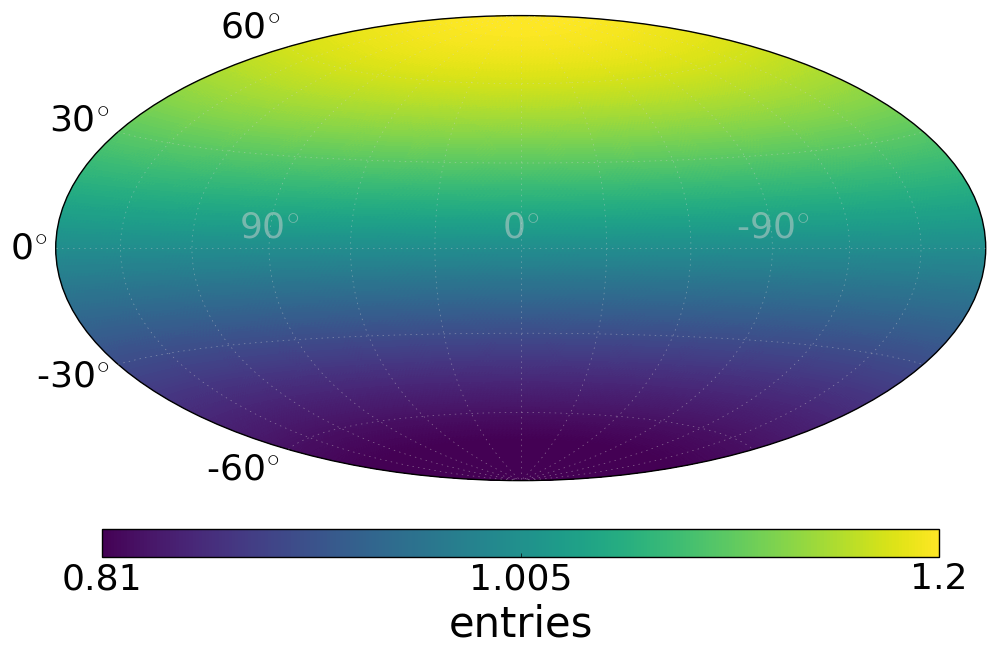
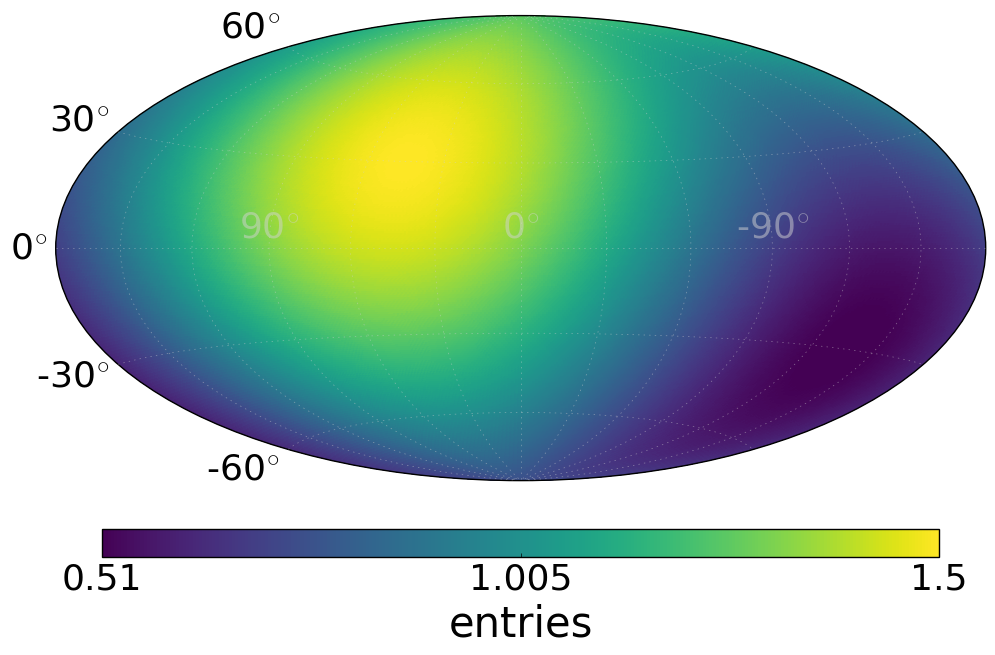
Extend the tutorial by the healpytools module 2

diff --git a/test/tutorial/tutorial.py b/test/tutorial/tutorial.py
@@ -63,7 +63,7 @@ print("Test: module healpytools.py")
 nside = 64          # resolution of the HEALPix map (default: 64)
 lon, lat = np.radians(45), np.radians(60)   # Position of the maximum of the dipole (healpy and astrotools definition)
 vec_max = hpt.ang2vec(lat, lon)             # Convert this to a vector
-amplitude = 0.2     # amplitude of dipole
+amplitude = 0.5     # amplitude of dipole
 dipole = hpt.dipole_pdf(nside, amplitude, vec_max)
 skymap.skymap(dipole, opath='dipole.png')
 

diff --git a/doc/source/tutorial.rst b/doc/source/tutorial.rst
@@ -54,7 +54,7 @@ sample random directions in pixel or create distributions on the sphere
 (dipole, fisher, experiment exposure).
 
 We will demonstrate some functions of the healpytools by creating a dipole
-distribution with amplitude 0.2 and direction of the maximum lon=45 degree and
+distribution with amplitude 0.5 and direction of the maximum lon=45 degree and
 lat = 60 degree on the sphere. We first have to set the nside resolution parameter
 of healpy:
 
@@ -65,7 +65,7 @@ of healpy:
 
   lon, lat = np.radians(45), np.radians(60)   # Position of the maximum of the dipole (healpy and astrotools definition)
   vec_max = hpt.ang2vec(lat, lon)             # Convert this to a vector
-  amplitude = 0.2                             # amplitude of dipole
+  amplitude = 0.5                             # amplitude of dipole
   dipole = hpt.dipole_pdf(nside, amplitude, vec_max)
   skymap.skymap(dipole, opath='dipole.png')
 
